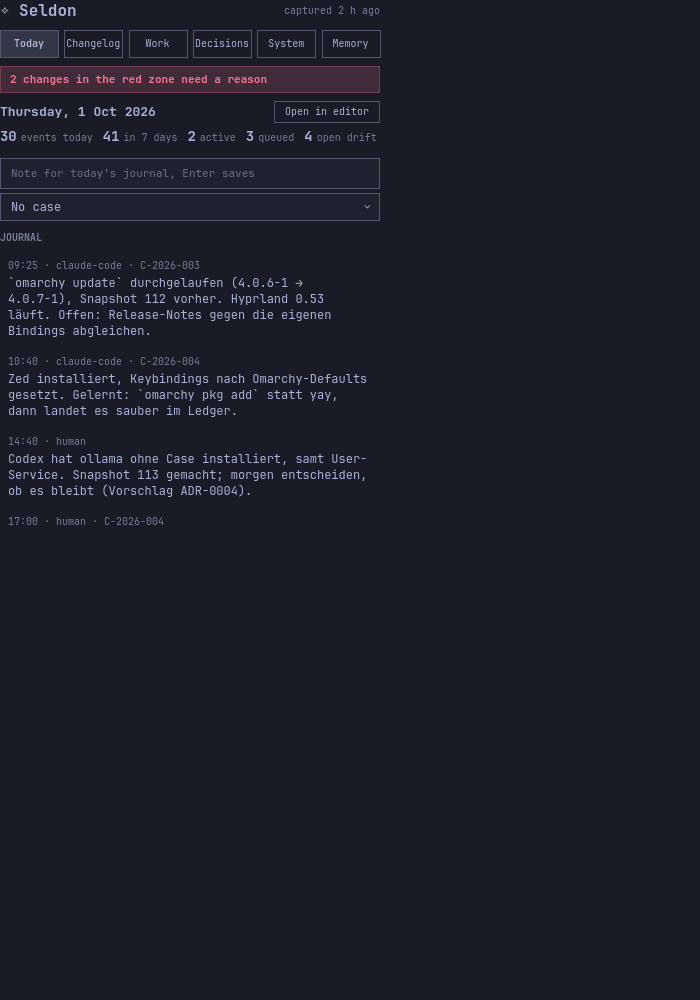
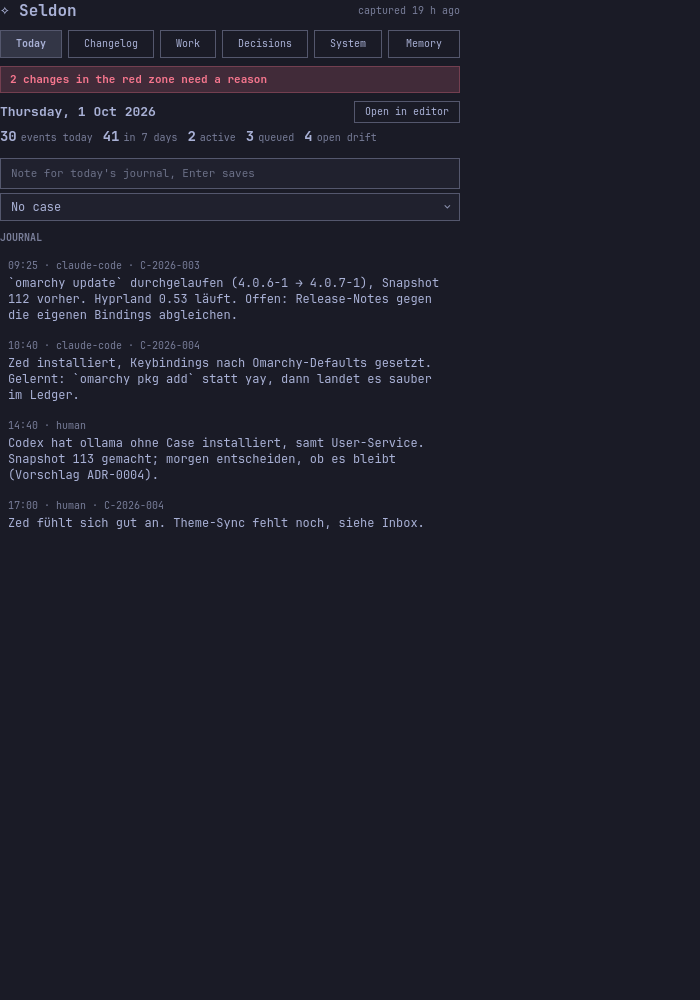
plugin: refresh preview.png and the panel render for the 460 panel (WP-039)
The panel render is a fresh PANEL_SHOTS run; preview.png is recomposed
with the same layout and theme, now 2480x1080 (the framed panel is
500 wide). TESTING's crop recipe, the README alt text and the WP file's
SPEC pointer (§5, not §3) follow.

diff --git a/work/active/WP-039/HANDOVER.md b/work/active/WP-039/HANDOVER.md
@@ -143,6 +143,27 @@ engine.**
     config.toml, no config.toml.
 - I checked by hand that each FAIL names the right reason.
 
+**10. Review follow-up (review: APPROVE, one follow-up before the
+merge).**
+- `docs/images/panel-tokyo-night-today.png` is the fresh `PANEL_SHOTS`
+  render (Tokyo Night, Today, live fake engine, no dev-mode line).
+  `docs/images/overlay-tokyo-night-1920x1080.png` is unchanged, because
+  the overlay did not change.
+- `plugin/preview.png` was recomposed with TESTING's recipe and the same
+  theme and layout: the overlay at 1920×1080 on the left, and the framed
+  panel on the right at `+1942+24`.
+- The crop is now `460x536`. The old `382` included the tab row's 2 px
+  spill past the panel, the bug fixed here; the strip now ends flush.
+  536 still ends just below the journal's last entry.
+- The framed panel grew from 422×576 to 500×576. To keep the 22 px gap
+  and the 36 px right margin, the canvas grew from 2400×1080 to
+  **2480×1080**: 153 036 bytes, under 1 MB.
+- `docs/TESTING.md`: the recipe now crops `460x536` on a `2480x1080`
+  canvas, and the crop paragraph explains the numbers.
+- `plugin/README.md`: the alt text says 2480×1080.
+- `work/active/WP-039/WP-039.md`: the three "SPEC-PLUGIN §3" pointers now
+  read §5.
+
 ## Not done
 
 - **No live check.** The dev host's plugin is the operator's; I did not
@@ -152,16 +173,6 @@ engine.**
   renders are the record. The live check is still to do on the dev host
   (copy into the dev install, or the next plugin release) and on the
   test host once it is unlocked.
-- **The guard's live-engine path has not been hit by a real run yet.**
-  No capture landed inside the final `just check` (the index was
-  rewritten at 12:08:19, between scripts). It is proven by the self-test.
-  The dev host's real config (`logbook` = the real logbook path) and
-  index (`logbook.path` the same, `logbook.machine` set) meet the
-  conditions.
-- **`plugin/preview.png` and `docs/images/panel-*.png` still show the 380
-  panel.** TESTING's crop line ("the panel's 380-unit width") matches
-  those images, so I left both alone. Refreshing them is a follow-up:
-  `PANEL_SHOTS`, then the crop at 460 + edge.
 - Chips: no code change (see Done 3).
 
 ## Verified by
@@ -178,6 +189,13 @@ $ just check                                                         → exit 0,
     qmllint: ok (28 files), tokens: ok (520 references), plugin-validate: ok
     real-home-guard.test: 11 passed · service-states: 189 passed · panel-view: 681 passed · overlay-view: 314 passed
 test host: omarchy-shell lock status                                 → locked: true, secure: true (stopped)
+follow-up:
+$ PANEL_SHOTS=<dir> bash tests/plugin/panel-view.sh                  → panel-view: 690 passed, 0 failed
+$ magick identify plugin/preview.png                                 → PNG 2480x1080, 153036 bytes
+$ just check (follow-up tree)                                        → exit 0, "check: ok"
+    real-home-guard.test: 11 passed · service-states: 189 passed · panel-view: 681 passed · overlay-view: 314 passed
+    "ok   service-states: the real ~/.local/state/seldon changed by the operator's live engine (not a leak)"
+    (a real capture by the operator's engine landed during that script: the guard's live-engine path, hit for real)
 ```
 
 The first full panel-view run after adding case 23 (12:00) failed on the
@@ -203,10 +221,7 @@ That is the reason for item 9.
 
 ## Decisions needed
 
-- None blocking.
-- Optional: refresh `plugin/preview.png` and `docs/images/panel-*` for the
-  wider panel. This is the marketplace preview, so it is the operator's
-  call when.
+- None.
 
 ## Touched outside WP scope
 

diff --git a/work/active/WP-039/WP-039.md b/work/active/WP-039/WP-039.md
@@ -19,7 +19,7 @@ the "Changelog" tab label is clipped at its right edge, the source
 chips (`all 500`, `pacman 484`, `snapper 0`, `omarchy 0`, `plugins 1`,
 `theme 3`, `config 2`, `agent 2`, `manual 2`, `seldon 6`) wrap into
 three rows, the header line "6 events from seldon · newest f…" is
-truncated; the operator asked for a wider panel. docs/SPEC-PLUGIN.md §3
+truncated; the operator asked for a wider panel. docs/SPEC-PLUGIN.md §5
 (width `Style.space(380)`, WP-011), plugin/Panel.qml (`contentWidth:
 panel.fittedContentWidth(Style.space(380))`, tabs share the width),
 plugin/components/Tabs.qml (`cellWidth` = equal share), plugin/components/
@@ -29,7 +29,7 @@ and WP-041 handovers, $OMARCHY_PATH/shell/plugins/ (how first-party
 panels size themselves: `Style.space`, scale), memory/omarchy-shell.md.
 
 ## Outputs
-- Panel width raised to `Style.space(460)` (SPEC-PLUGIN §3 updated; the
+- Panel width raised to `Style.space(460)` (SPEC-PLUGIN §5 updated; the
   overlay is unaffected) — unless the built-in panels use a different
   convention worth following; say so in the handover.
 - Tabs: each tab cell at least as wide as its label plus padding
@@ -46,7 +46,7 @@ panels size themselves: `Style.space`, scale), memory/omarchy-shell.md.
 - Harness: `panel-view.sh` gains overflow assertions for tab labels and
   the header line at both scales (the text item's `contentWidth` ≤ its
   width); renders in three themes under work/active/WP-039/screenshots/.
-- plugin/README.md and SPEC-PLUGIN §3 wording for the new width.
+- plugin/README.md and SPEC-PLUGIN §5 wording for the new width.
 
 ## Acceptance tests
 - `just check` exit 0 with the new overflow assertions.

diff --git a/docs/TESTING.md b/docs/TESTING.md
@@ -787,16 +787,18 @@ colours are Tokyo Night's `background` and `accent` from its
 `colors.toml`):
 
 ```sh
-magick docs/images/panel-tokyo-night-today.png -crop 382x536+0+0 +repage \
+magick docs/images/panel-tokyo-night-today.png -crop 460x536+0+0 +repage \
   -bordercolor '#1a1b26' -border 18 -bordercolor '#7aa2f7' -border 2 /tmp/panel-framed.png
-magick -size 2400x1080 xc:'#1a1b26' \
+magick -size 2480x1080 xc:'#1a1b26' \
   docs/images/overlay-tokyo-night-1920x1080.png -geometry +0+0 -composite \
   /tmp/panel-framed.png -geometry +1942+24 -composite \
   -strip -define png:compression-level=9 plugin/preview.png
 ```
 
-The crop is the panel's 380-unit width plus its tab row's edge and the
-journal list's bottom at the default font; re-check it if the panel's
+The crop is the panel's 460-unit width (the tab strip ends flush with it
+since WP-039) and the bottom of the journal's last entry at the default
+font. The framed panel is 500×576, placed 22 px right of the overlay with
+36 px to spare, so the canvas is 2480×1080. Re-check both if the panel's
 layout changes. The image must stay under 1 MB (it is about 150 KB).
 
 ### 4. Runtime smoke test in the shell

diff --git a/plugin/README.md b/plugin/README.md
@@ -9,7 +9,7 @@ and the **Prime Radiant**, a fullscreen overlay with charts and the plan.
 You write notes, plan cases and explain unexpected changes from the panel;
 the engine does the writing.
 
-![Preview, 2400×1080: the Prime Radiant at 1920×1080 on the left, the panel's Today tab framed on the right, Tokyo Night](preview.png)
+![Preview, 2480×1080: the Prime Radiant at 1920×1080 on the left, the panel's Today tab framed on the right, Tokyo Night](preview.png)
 
 *Offscreen renders of the real QML on the sample index, Tokyo Night theme.*
 
